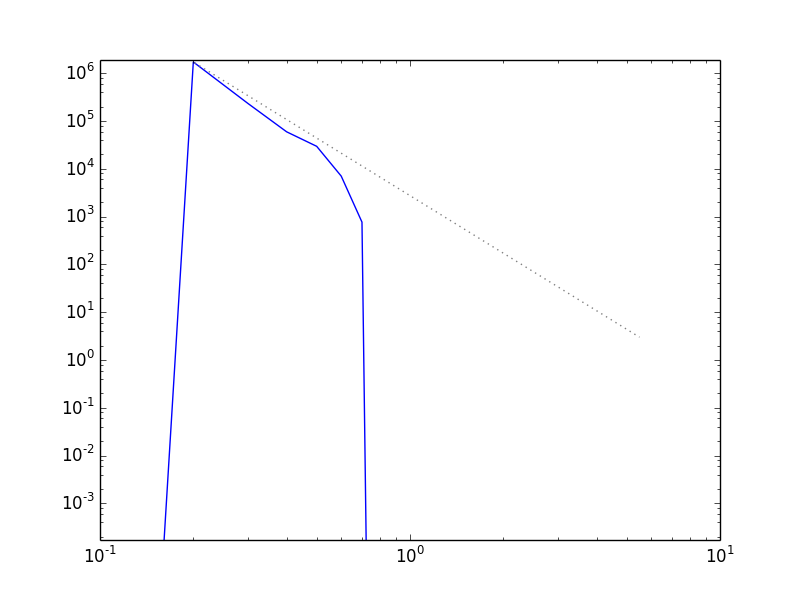
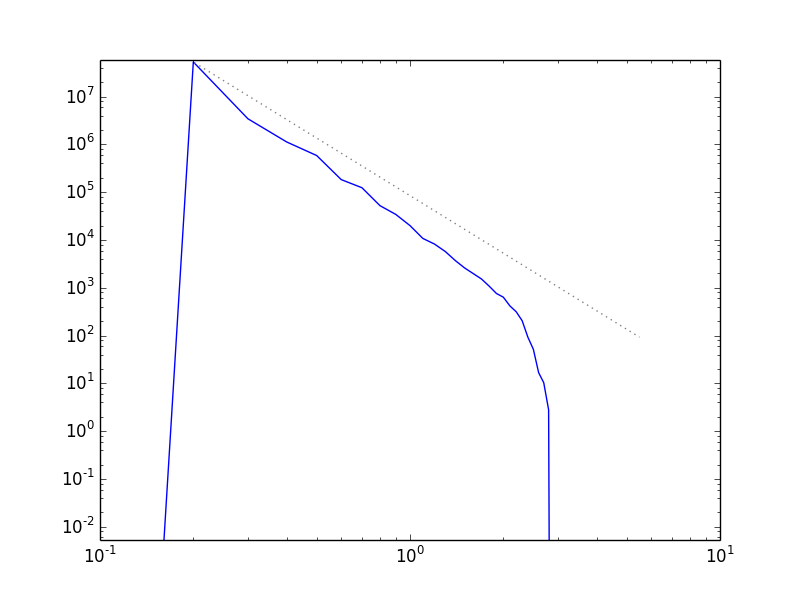
in real space, we need to normalize by 4pi k**2 to account for the dS in the integral.  When we do this, we get the expected scaling with the power spectrum w/o normalizing each bin by ncount -- as originally expected.  There is still a amplitude mismatch between real space and Fourier space.

diff --git a/ps.py b/ps.py
@@ -50,13 +50,13 @@ for m in range(mode_min,modes+1):
 print "min{k_x} = ", mode_min/L[0]
 
 ii_min = 3*mode_min**2 
-A_ksmall = A_0*np.sqrt((mode_min/L[0])**2 + 
-                       (mode_min/L[1])**2 + 
-                       (mode_min/L[2])**2)**index/weights[ii_min]
+kmin = np.sqrt((mode_min/L[0])**2 + (mode_min/L[1])**2 + (mode_min/L[2])**2)
+A_ksmall = A_0*kmin**index/(weights[ii_min]*4.0*np.pi*kmin**2)
 
 print "amplitude of smallest k = ", np.sqrt(A_ksmall)
 print "power at smallest k =     ", A_ksmall
 print "weights at smallest k =   ", weights[ii_min]
+
 
 # compute the function we will find the power spectrum of
 for m in range(mode_min,modes+1):
@@ -72,11 +72,13 @@ for m in range(mode_min,modes+1):
             ii2 = m**2 + n**2 + p**2
 
             k = np.sqrt(k_x**2 + k_y**2 + k_z**2)
-            A = np.sqrt(A_0*k**index/weights[ii2])
-            print "({}, {}, {})".format(m,n,p), "k = ", k, "A = ", A
+            dA = 4.0*np.pi*k**2
+            A = np.sqrt(A_0*k**index/(weights[ii2]*dA))
+
             phi += A*np.sin(2.0*np.pi*k_x*x3d + 
                             2.0*np.pi*k_y*y3d + 
                             2.0*np.pi*k_z*z3d)
+
 
 
 #---------------------------------------------------------------------------
@@ -216,8 +218,10 @@ E_spectrum = np.zeros(len(ncount)-1, dtype=np.float64)
 for n in range(len(ncount)):
     if not ncount[n] == 0: 
         #E_spectrum[n-1] = np.sum((np.abs(phi_hat)).flat[whichbin==n]) /ncount[n]
-        E_spectrum[n-1] = np.sum((np.abs(phi_hat)**2).flat[whichbin==n]) /ncount[n]
+        E_spectrum[n-1] = np.sum((np.abs(phi_hat)**2).flat[whichbin==n]) #/ncount[n]
 
+
+print ncount
 
 #---------------------------------------------------------------------------
 # plot the power spectrum
